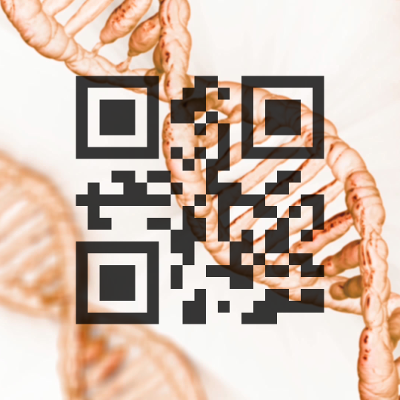
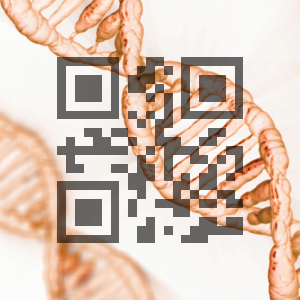
readme: better sample output with more transparency

diff --git a/README.rst b/README.rst
@@ -17,7 +17,7 @@ And a URL or some other text::
 
 Combine them::
 
-    prettyqr foo.com img/dna-orig.png --outfile img/dna-qr.png
+    prettyqr --qr-opacity 150 --outfile img/dna-qr.png foo.com img/dna-orig.png
 
 .. image:: https://raw.githubusercontent.com/olorin/prettyqr/master/img/dna-qr.png
    :alt: QR code image
